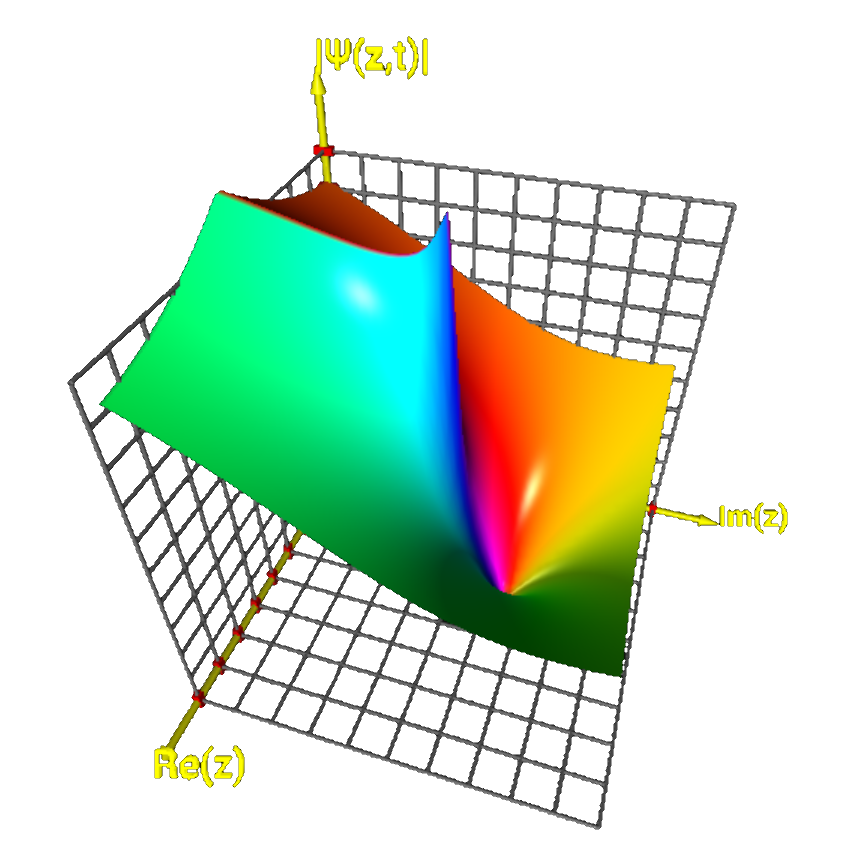
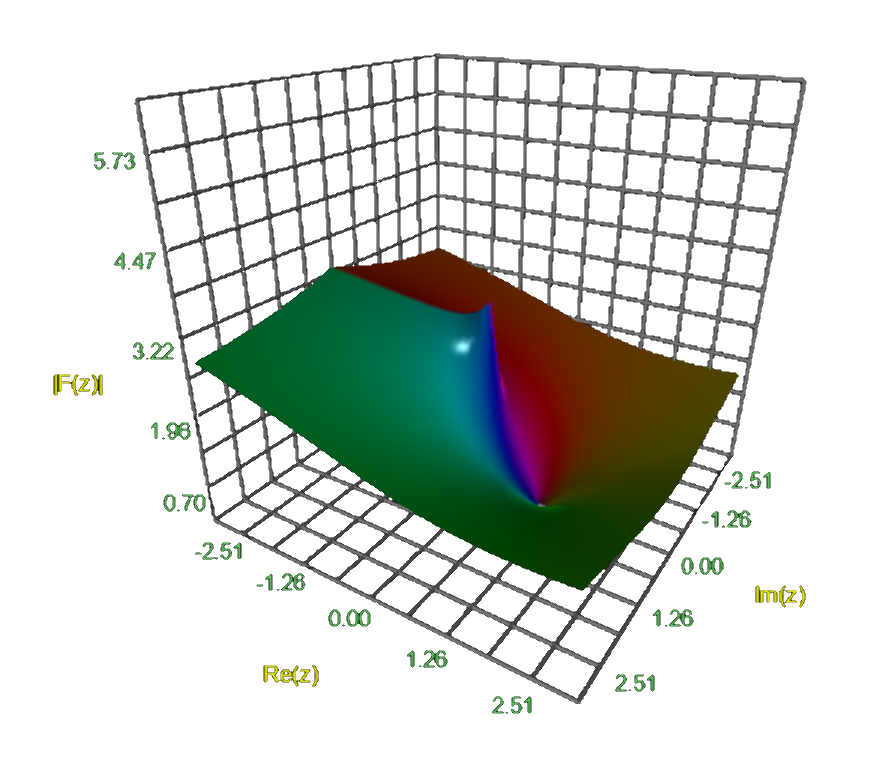
Updated picture

diff --git a/mathematics/glowscript/complex_functions.py b/mathematics/glowscript/complex_functions.py
@@ -350,7 +350,7 @@ class Figure:
         self._omega, self._opacity, self._shininess = pi, 1, .6
         self._axis_color, self._tick_marks_color, self._num_tick_marks = axis_color, tick_marks_color, num_tick_marks
         self._base = None
-        self._tick_marks_visible, self._mesh_visible, self._axis_labels_visible, self._plot_contours = True, True, False, True
+        self._tick_marks_visible, self._mesh_visible, self._axis_labels_visible, self._plot_contours = True, True, False, False
         self._canvas = canvas_
 
     def _create_base(self, xx, yy, zz):
@@ -533,6 +533,19 @@ def z_cubed(resolution=50):
 
     return NumpyWrapper(-2, 2, -2, 2, resolution).get_plot_data(f_x, f_y, f_z)
 
+def log_z(resolution=50):
+    def f_x(xx, _, i, j):
+        return xx[i][j]
+
+    def f_y(_, yy, i, j):
+        return yy[i][j]
+
+    def f_z(xx, yy, i, j):
+        z = math.complex(xx[i][j], yy[i][j])
+        return math.complex(log(z.abs()), atan2(z.im(), z.re()))
+
+    return NumpyWrapper(-pi, pi, -pi, pi, resolution).get_plot_data(f_x, f_y, f_z)
+
 ################
 # GUI controls #
 ################
@@ -614,7 +627,7 @@ animation.title = "DIT MOET NOG GEDAAN" + "\n\n"
 #MathJax.Hub.Queue(["Typeset", MathJax.Hub])
 
 figure = Figure(animation)
-xx_, yy_, zz_ = z_squared_plus_2()
+xx_, yy_, zz_ = log_z()
 figure.add_subplot(xx_, yy_, zz_)
 
 dt = 0.0
